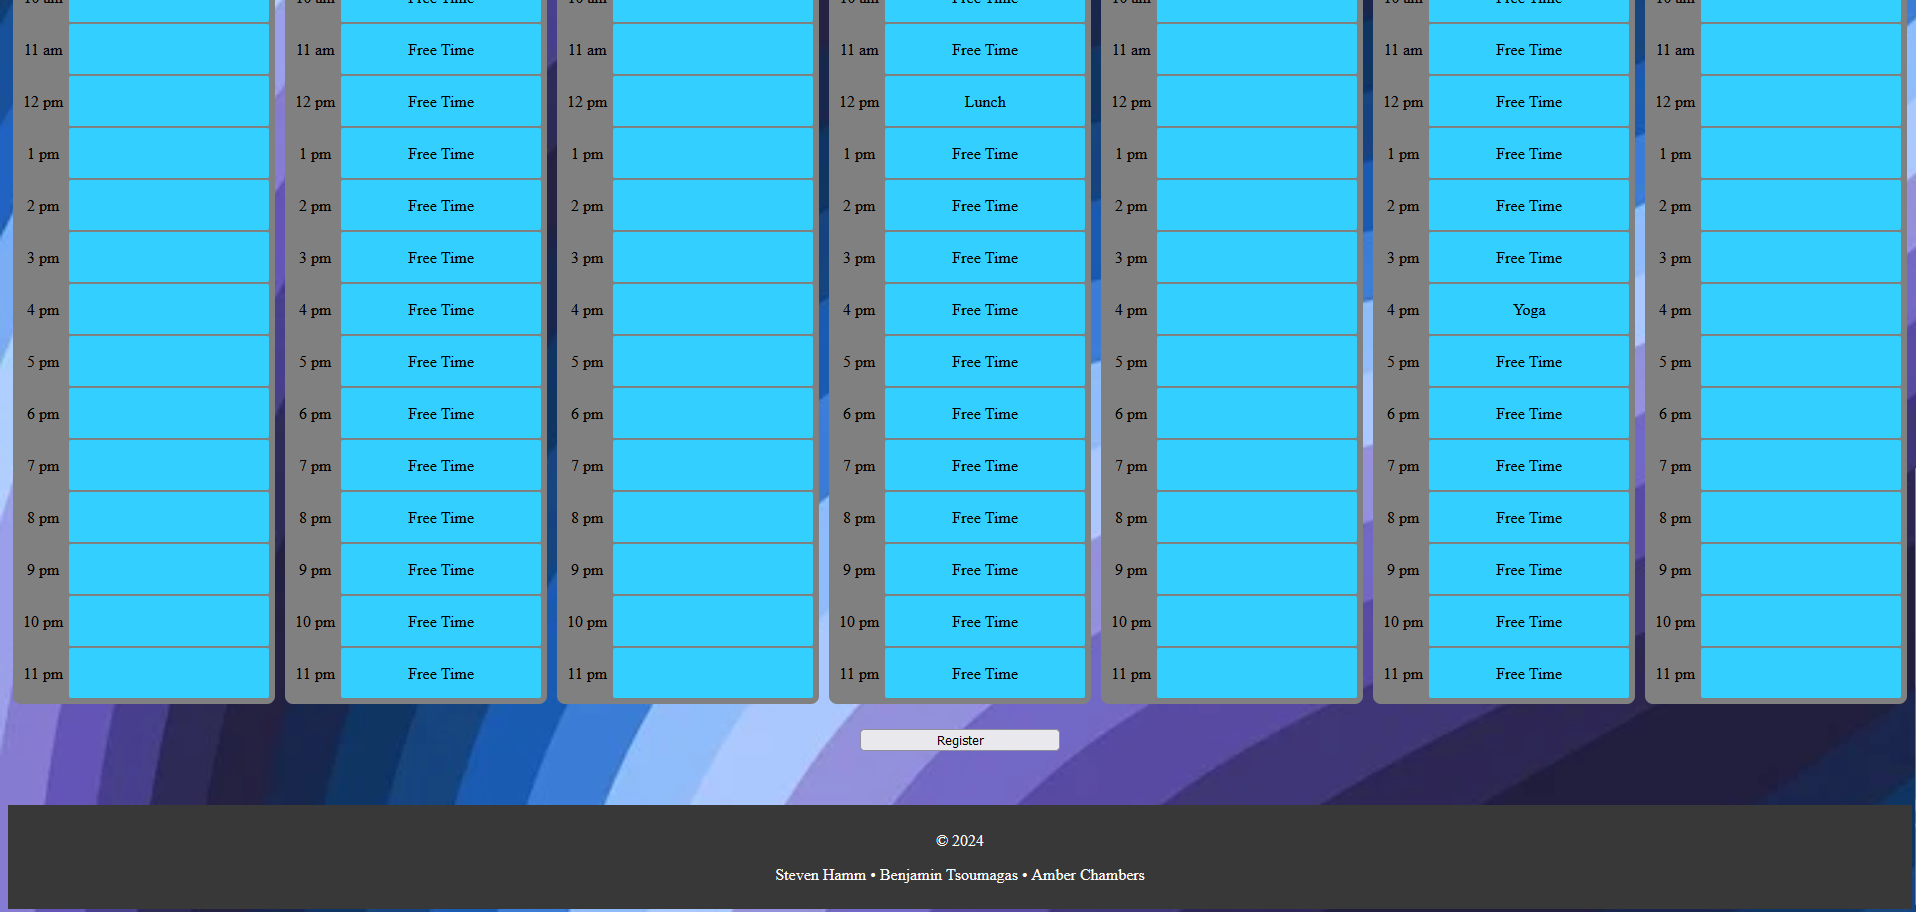
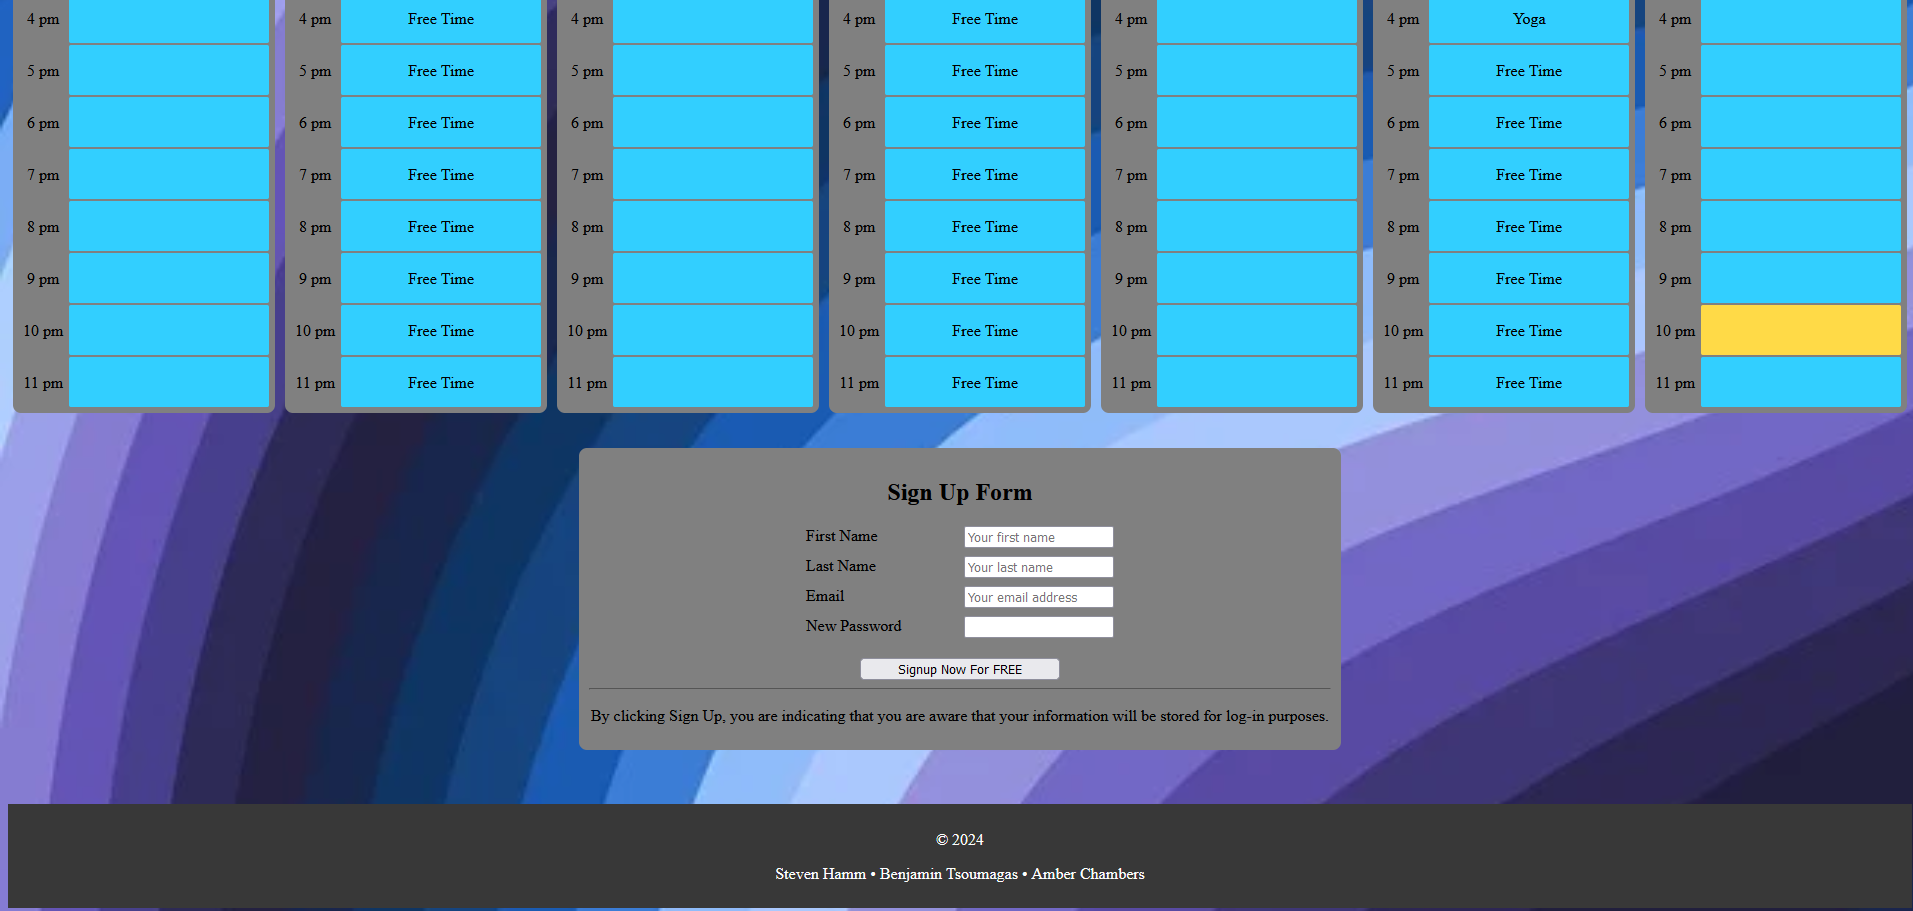
Added Project Screenshots to README.md and replaced main page bottom image

diff --git a/README.md b/README.md
@@ -26,7 +26,20 @@ https://tsoumagas-benjamin.github.io/weekly-planner-website/index.html
 
 ## Main Page
 
+Top of the Main Page
+![Main Page Top](https://github.com/tsoumagas-benjamin/weekly-planner-website/blob/main/screenshots/MainPage1.png?raw=true)
+
+Bottom of the Main Page
+![Main Page Bottom](https://github.com/tsoumagas-benjamin/weekly-planner-website/blob/main/screenshots/MainPage2.png?raw=true)
+
+
 ## Day Page
+
+Top of Monday's Day Page
+![Day Page Top](https://github.com/tsoumagas-benjamin/weekly-planner-website/blob/main/screenshots/DayPage1.png?raw=true)
+
+Bottom of Monday's Day Page
+![Day Page Top](https://github.com/tsoumagas-benjamin/weekly-planner-website/blob/main/screenshots/DayPage2.png?raw=true)
 
 # Feature Presentation
 
